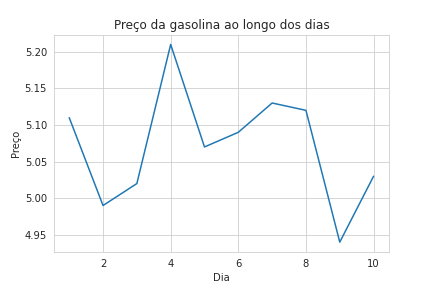
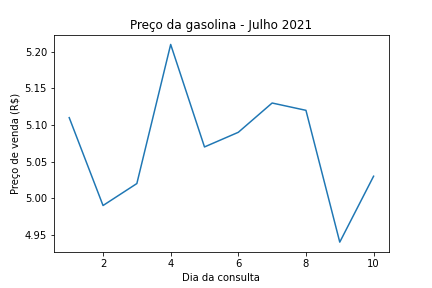
alteração no código para geração do gráfico do preço da gasolina

diff --git a/gasolina.py b/gasolina.py
@@ -2,12 +2,11 @@ import pandas as pd
 import seaborn as sns
 import matplotlib.pyplot as plt
 
-
 df = pd.read_csv('gasolina.csv')
 
-with sns.axes_style('whitegrid'):
-  grafico = sns.lineplot(data = df, x = 'dia', y = 'venda')
-  grafico.set(title = 'Preço da gasolina ao longo dos dias', \
-            xlabel = 'Dia', ylabel = "Preço")
+grafico = sns.lineplot(data = df, x = 'dia', y = 'venda', palette = 'pastel')
+
+grafico.set(title = 'Preço da gasolina - Julho 2021',\
+            xlabel = 'Dia da consulta', ylabel = 'Preço de venda (R$)')
 
 plt.savefig('gasolina.png')
